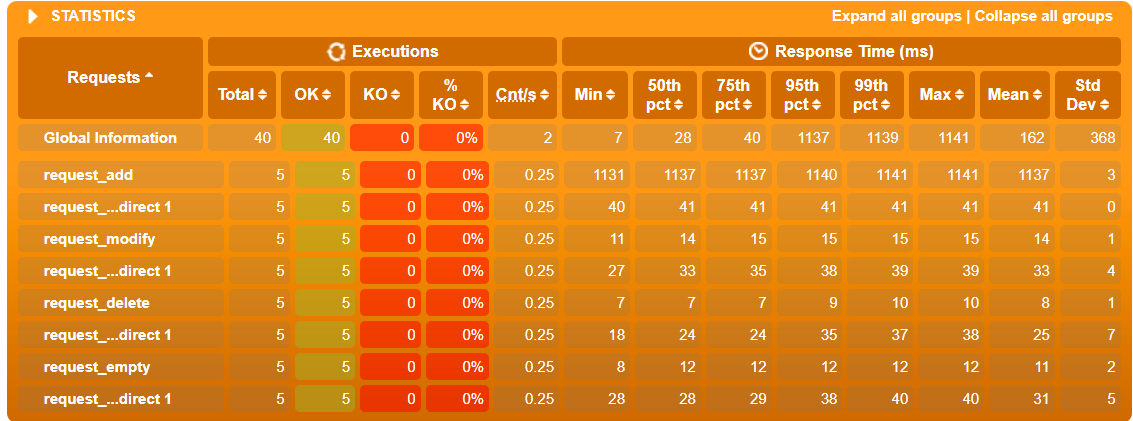
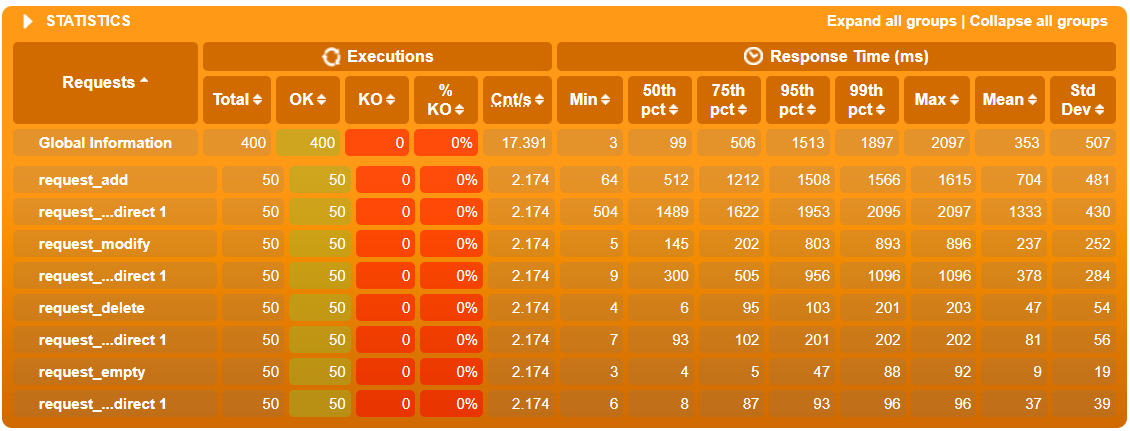
TaskTwo

diff --git a/Report.md b/Report.md
@@ -19,7 +19,7 @@
 docker run -d --name jdpos-0.5 --cpus=0.5 -p 18888:8888 jdpos
 docker run -d --name jdpos-1 --cpus=1 -p 18889:8888 jdpos
 ```
-然后分别对这两个镜像进行压力测试，测试五个用户添加物品，增加物品，删除物品，清空购物车功能
+然后分别对这两个容器进行压力测试，测试五个用户添加物品，增加物品，删除物品，清空购物车功能
 ```java
 scenario("TaskOne Cpu=0.5")
     .exec(http("request_add").get("/add?pid=10058164"))
@@ -36,3 +36,8 @@ setUp(scn.injectOpen(atOnceUsers(5)).protocols(httpProtocol));
 1个CPU结果
 ![](result/TaskOneCpu1.png "1个CPU结果")
 结论：CPU数目增加时，会提升访问速度，但是由于本程序对计算执行较少，所以不会有显著提升。对于计算量大的程序，使用垂直扩展可以显著提升速度，但是这种方法基于CPU的性能来进行提升，成本高，上限低。
+
+## 3. 水平扩展压力测试
+创建4个使用0.5个CPU的容器作为四个服务器，进行压力测试，测试五个用户添加物品，增加物品，删除物品，清空购物车功能
+4个server结果：
+![](result/TaskTwoServer4.png "4个server结果")
